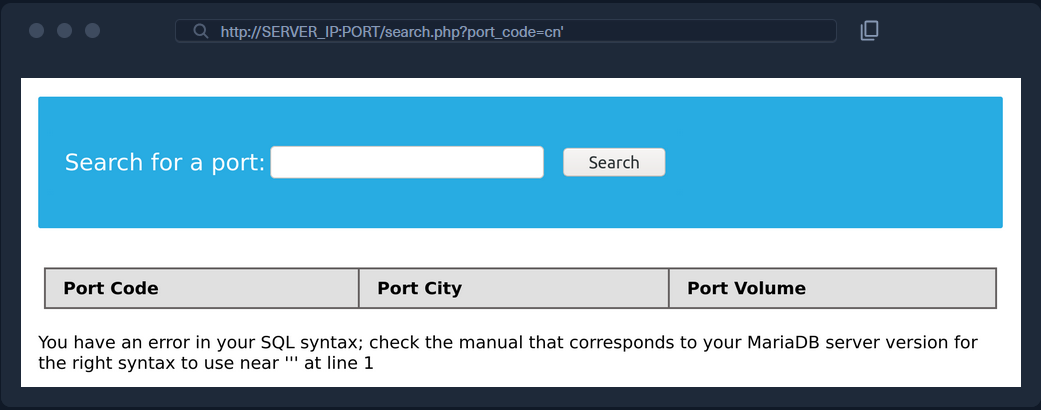
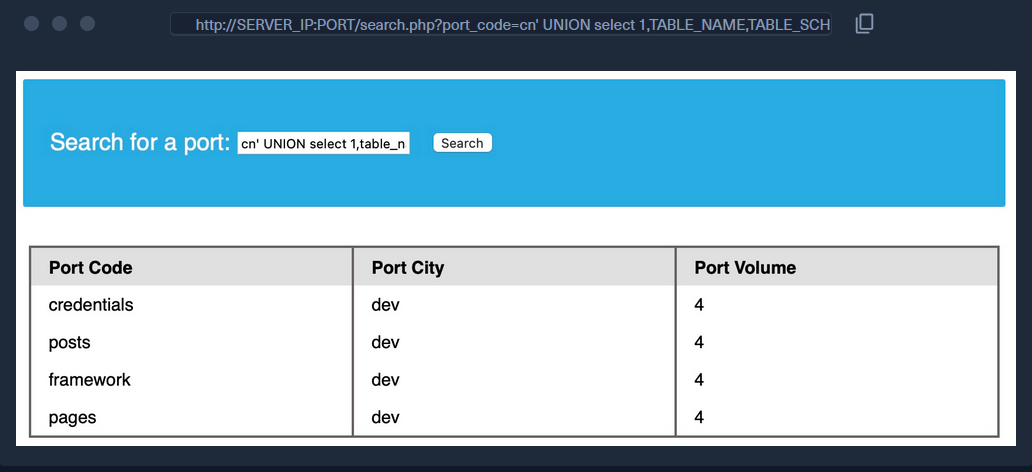
GITBOOK-65: No subject

diff --git a/HTB/Web Penetration Tester/8.-sql-injection-fundamentals/8.13-database-enumeration.md b/HTB/Web Penetration Tester/8.-sql-injection-fundamentals/8.13-database-enumeration.md
@@ -1,0 +1,171 @@
+---
+layout:
+  width: wide
+  title:
+    visible: true
+  description:
+    visible: false
+  tableOfContents:
+    visible: true
+  outline:
+    visible: true
+  pagination:
+    visible: true
+  metadata:
+    visible: false
+  tags:
+    visible: true
+---
+
+# 8.13 Database Enumeration
+
+In the previous sections, we learned about different SQL queries in `MySQL` and SQL injections and how to use them. This section will put all of that to use and gather data from the database using SQL queries within SQL injections.
+
+***
+
+### MySQL Fingerprinting <a href="#mysql-fingerprinting" id="mysql-fingerprinting"></a>
+
+Before enumerating the database, we usually need to identify the type of DBMS we are dealing with. This is because each DBMS has different queries, and knowing what it is will help us know what queries to use.
+
+As an initial guess, if the webserver we see in HTTP responses is <mark style="color:$info;">`Apache`</mark> or <mark style="color:$info;">`Nginx`</mark>, it is a good guess that the webserver is running on Linux, so the DBMS is likely <mark style="color:$info;">`MySQL`</mark>. The same also applies to Microsoft DBMS if the webserver is <mark style="color:$info;">`IIS`</mark>, so it is likely to be <mark style="color:$info;">`MSSQL`</mark>. However, this is a far-fetched guess, as many other databases can be used on either operating system or web server. So, there are different queries we can test to fingerprint the type of database we are dealing with.
+
+As we cover <mark style="color:$info;">`MySQL`</mark> in this module, let us fingerprint <mark style="color:$info;">`MySQL`</mark> databases. The following queries and their output will tell us that we are dealing with <mark style="color:$info;">`MySQL`</mark>:
+
+| Payload                                              | When to Use                      | Expected Output                                                                       | Wrong Output                                              |
+| ---------------------------------------------------- | -------------------------------- | ------------------------------------------------------------------------------------- | --------------------------------------------------------- |
+| <mark style="color:$info;">`SELECT @@version`</mark> | When we have full query output   | MySQL Version 'i.e. <mark style="color:$info;">`10.3.22-MariaDB-1ubuntu1`</mark>'     | In MSSQL it returns MSSQL version. Error with other DBMS. |
+| <mark style="color:$info;">`SELECT POW(1,1)`</mark>  | When we only have numeric output | <mark style="color:$info;">`1`</mark>                                                 | Error with other DBMS                                     |
+| <mark style="color:$info;">`SELECT SLEEP(5)`</mark>  | Blind/No Output                  | Delays page response for 5 seconds and returns <mark style="color:$info;">`0`</mark>. | Will not delay response with other DBMS                   |
+
+As we saw in the example from the previous section, when we tried <mark style="color:$info;">`@@version`</mark>, it gave us:
+
+<figure><img src="../.gitbook/assets/image (3).png" alt=""><figcaption></figcaption></figure>
+
+The output <mark style="color:$info;">`10.3.22-MariaDB-1ubuntu1`</mark> means that we are dealing with a <mark style="color:$info;">`MariaDB`</mark> DBMS similar to MySQL. Since we have direct query output, we will not have to test the other payloads. Instead, we can test them and see what we get.
+
+***
+
+### INFORMATION\_SCHEMA Database <a href="#information_schema-database" id="information_schema-database"></a>
+
+To pull data from tables using <mark style="color:$info;">`UNION SELECT`</mark>, we need to properly form our <mark style="color:$info;">`SELECT`</mark> queries. To do so, we need the following information:
+
+* List of databases
+* List of tables within each database
+* List of columns within each table
+
+With the above information, we can form our <mark style="color:$info;">`SELECT`</mark> statement to dump data from any column in any table within any database inside the DBMS. This is where we can utilize the <mark style="color:$info;">`INFORMATION_SCHEMA`</mark> Database.
+
+The <mark style="color:$info;">`INFORMATION_SCHEMA`</mark> database is a special database in systems like MySQL. It does not store normal user data like usernames or passwords. Instead, it stores **metadata**, which means information _about_ other databases.
+
+This includes details such as:
+
+* What databases exist
+* What tables are inside each database
+* What columns each table has
+
+This makes it very useful during SQL Injection because it helps us understand the structure of the database.
+
+Normally, when we write a query like:
+
+```sql
+SELECT * FROM users;
+```
+
+the database will search for the **users** table only inside the currently selected database.
+
+But if we want to access a table from a different database, we must specify both the database name and table name using a dot (<mark style="color:$info;">`.`</mark>`)`.
+
+Example:
+
+```sql
+SELECT * FROM my_database.users;
+```
+
+Here:
+
+* <mark style="color:$info;">`my_database`</mark> is the database name
+* <mark style="color:$info;">`users`</mark> is the table name
+
+This tells the database exactly where to look.
+
+In the same way, we can access tables inside the <mark style="color:$info;">**`INFORMATION_SCHEMA`**</mark> database.
+
+For example:
+
+```sql
+SELECT * FROM INFORMATION_SCHEMA.tables;
+```
+
+This query returns a list of all tables from all databases.
+
+So, instead of guessing table names, we can use <mark style="color:$info;">`INFORMATION_SCHEMA`</mark> to discover them easily. This is why it plays an important role in SQL Injection attacks, as it helps attackers explore the database structure step by step.
+
+***
+
+### SCHEMATA <a href="#schemata" id="schemata"></a>
+
+To start our enumeration, we should find what databases are available on the DBMS. The table [SCHEMATA](https://dev.mysql.com/doc/refman/8.0/en/information-schema-schemata-table.html) in the <mark style="color:$info;">`INFORMATION_SCHEMA`</mark> database contains information about all databases on the server. It is used to obtain database names so we can then query them. The `SCHEMA_NAME` column contains all the database names currently present.
+
+Let us first test this on a local database to see how the query is used:
+
+```bash
+mysql> SELECT SCHEMA_NAME FROM INFORMATION_SCHEMA.SCHEMATA;
+
++--------------------+
+| SCHEMA_NAME        |
++--------------------+
+| mysql              |
+| information_schema |
+| performance_schema |
+| ilfreight          |
+| dev                |
++--------------------+
+6 rows in set (0.01 sec)
+```
+
+We see the <mark style="color:$info;">`ilfreight`</mark> and <mark style="color:$info;">`dev`</mark> databases.
+
+> Note: The first three databases are default MySQL databases and are present on any server, so we usually ignore them during DB enumeration. Sometimes there's a fourth '<mark style="color:$info;">`sys`</mark>' DB as well.
+
+Now, let's do the same using a <mark style="color:$info;">`UNION`</mark> SQL injection, with the following payload:
+
+```sql
+cn' UNION select 1,schema_name,3,4 from INFORMATION_SCHEMA.SCHEMATA-- -
+```
+
+<figure><img src="../.gitbook/assets/image.png" alt=""><figcaption></figcaption></figure>
+
+Once again, we see two databases, <mark style="color:$info;">`ilfreight`</mark> and <mark style="color:$info;">`dev`</mark>, apart from the default ones. Let us find out which database the web application is running to retrieve ports data from.&#x20;
+
+We can find the current database with the <mark style="color:$info;">`SELECT database()`</mark> query. We can do this similarly to how we found the DBMS version in the previous section:
+
+```sql
+ cn' UNION select 1,database(),2,3-- -
+```
+
+<figure><img src="../.gitbook/assets/image (1).png" alt=""><figcaption></figcaption></figure>
+
+We see that the database name is <mark style="color:$info;">`ilfreight`</mark>. However, the other database (<mark style="color:$info;">`dev`</mark>) looks interesting. So, let us try to retrieve the tables from it.
+
+***
+
+### TABLES <a href="#tables" id="tables"></a>
+
+Before we dump data from the <mark style="color:$info;">`dev`</mark> database, we need to get a list of the tables to query them with a <mark style="color:$info;">`SELECT`</mark> statement. To find all tables within a database, we can use the <mark style="color:$info;">`TABLES`</mark> table in the <mark style="color:$info;">`INFORMATION_SCHEMA`</mark> Database.
+
+The [TABLES](https://dev.mysql.com/doc/refman/8.0/en/information-schema-tables-table.html) table contains information about all tables throughout the database. This table contains multiple columns, but we are interested in the <mark style="color:$info;">`TABLE_SCHEMA`</mark> and <mark style="color:$info;">`TABLE_NAME`</mark> columns. The <mark style="color:$info;">`TABLE_NAME`</mark> column stores table names, while the <mark style="color:$info;">`TABLE_SCHEMA`</mark> column points to the database each table belongs to. This can be done similarly to how we found the database names. For example, we can use the following payload to find the tables within the <mark style="color:$info;">`dev`</mark> database:
+
+```sql
+cn' UNION select 1,TABLE_NAME,TABLE_SCHEMA,4 from INFORMATION_SCHEMA.TABLES where table_schema='dev'-- -
+```
+
+> Note how we replaced the numbers '2' and '3' with 'TABLE\_NAME' and 'TABLE\_SCHEMA', to get the output of both columns in the same query.
+
+<figure><img src="../.gitbook/assets/image (2).png" alt=""><figcaption></figcaption></figure>
+
+> Note: we added a (where table\_schema='dev') condition to only return tables from the 'dev' database, otherwise we would get all tables in all databases, which can be many.
+
+We see four tables in the dev database, namely <mark style="color:$info;">`credentials`</mark>, <mark style="color:$info;">`framework`</mark>, <mark style="color:$info;">`pages`</mark>, and <mark style="color:$info;">`posts`</mark>. For example, the <mark style="color:$info;">`credentials`</mark> table could contain sensitive information to look into it.
+
+***
+

diff --git a/HTB/Web Penetration Tester/6.-javascript-deobfuscation/6.6-deobfuscation.md b/HTB/Web Penetration Tester/6.-javascript-deobfuscation/6.6-deobfuscation.md
@@ -29,7 +29,7 @@ We see that the current code we have is all written in a single line. This is kn
 
 For example, if we were using Firefox, we can open the browser debugger with <mark style="color:$primary;">`CTRL+SHIFT+Z`</mark>, and then click on our script <mark style="color:$primary;">`secret.js`</mark>. This will show the script in its original formatting, but we can click on the '<mark style="color:$primary;">`{ }`</mark>' button at the bottom, which will <mark style="color:$primary;">`Pretty Print`</mark> the script into its proper JavaScript formatting:
 
-<figure><img src="../.gitbook/assets/image (1) (1) (1) (1).png" alt=""><figcaption></figcaption></figure>
+<figure><img src="../.gitbook/assets/image (1) (1) (1) (1) (1).png" alt=""><figcaption></figcaption></figure>
 
 Furthermore, we can utilize many online tools or code editor plugins, like [Prettier](https://prettier.io/playground/) or [Beautifier](https://beautifier.io/). Let us copy the `secret.js` script:
 
@@ -40,9 +40,9 @@ eval(function (p, a, c, k, e, d) { e = function (c) { return c.toString(36) }; i
 
 We can see that both websites do a good job in formatting the code:
 
-<figure><img src="../.gitbook/assets/image (1) (1) (1) (1) (1).png" alt=""><figcaption></figcaption></figure>
+<figure><img src="../.gitbook/assets/image (1) (1) (1) (1) (1) (1).png" alt=""><figcaption></figcaption></figure>
 
-<figure><img src="../.gitbook/assets/image (2) (1) (1) (1).png" alt=""><figcaption></figcaption></figure>
+<figure><img src="../.gitbook/assets/image (2) (1) (1) (1) (1).png" alt=""><figcaption></figcaption></figure>
 
 However, the code is still not very easy to read. This is because the code we are dealing with was not only minified but obfuscated as well. So, simply formatting or beautifying the code will not be enough. For that, we will require tools to deobfuscate the code.
 
@@ -54,7 +54,7 @@ We can find many good online tools to deobfuscate JavaScript code and turn it in
 
 > Tip: Ensure you do not leave any empty lines before the script, as it may affect the deobfuscation process and give inaccurate results.
 
-<figure><img src="../.gitbook/assets/image (3) (1) (1) (1).png" alt=""><figcaption></figcaption></figure>
+<figure><img src="../.gitbook/assets/image (3) (1) (1) (1) (1).png" alt=""><figcaption></figcaption></figure>
 
 We can see that this tool does a much better job in deobfuscating the JavaScript code and gave us an output we can understand:
 

diff --git a/HTB/Web Penetration Tester/3.-using-web-proxies/3.4-automatic-modification.md b/HTB/Web Penetration Tester/3.-using-web-proxies/3.4-automatic-modification.md
@@ -6,7 +6,7 @@
 
 We can go to (`Proxy>Proxy settings>HTTP match and replace rules`) and click on `Add` in Burp. As the screenshot below shows, we will set the following options:
 
-<figure><img src="../.gitbook/assets/image (2) (1) (1) (1) (1) (1).png" alt=""><figcaption></figcaption></figure>
+<figure><img src="../.gitbook/assets/image (2) (1) (1) (1) (1) (1) (1).png" alt=""><figcaption></figcaption></figure>
 
 | **Type: Request header**                      | Since the change we want to make will be in the request header and not in its body.                                                              |
 | --------------------------------------------- | ------------------------------------------------------------------------------------------------------------------------------------------------ |
@@ -16,7 +16,7 @@ We can go to (`Proxy>Proxy settings>HTTP match and replace rules`) and click on 
 
 Once we enter the above options and click `Ok`, our new Match and Replace option will be added and enabled and will start automatically replacing the `User-Agent` header in our requests with our new User-Agent. We can verify that by visiting any website using the pre-configured Burp browser and reviewing the intercepted request. We will see that our User-Agent has indeed been automatically replaced:
 
-<figure><img src="../.gitbook/assets/image (3) (1) (1) (1) (1) (1).png" alt=""><figcaption></figcaption></figure>
+<figure><img src="../.gitbook/assets/image (3) (1) (1) (1) (1) (1) (1).png" alt=""><figcaption></figcaption></figure>
 
 ***
 
@@ -24,7 +24,7 @@ Once we enter the above options and click `Ok`, our new Match and Replace option
 
 ZAP has a similar feature called `Replacer`, which we can access by pressing \[`CTRL+R`] or clicking on `Replacer` in ZAP's options menu. It is fairly similar to what we did above, so we can click on `Add` and add the same options we used earlier:
 
-<figure><img src="../.gitbook/assets/image (4) (1) (1) (1) (1).png" alt=""><figcaption></figcaption></figure>
+<figure><img src="../.gitbook/assets/image (4) (1) (1) (1) (1) (1).png" alt=""><figcaption></figcaption></figure>
 
 * `Description`: `HTB User-Agent`.
 * `Match Type`: `Request Header (will add if not present)`.

diff --git a/HTB/Web Penetration Tester/8.-sql-injection-fundamentals/8.12-union-injection.md b/HTB/Web Penetration Tester/8.-sql-injection-fundamentals/8.12-union-injection.md
@@ -21,11 +21,11 @@ layout:
 
 Now that we know how the Union clause works and how to use it let us learn how to utilize it in our SQL injections. Let us take the following example:
 
-<figure><img src="../.gitbook/assets/image (1).png" alt=""><figcaption></figcaption></figure>
+<figure><img src="../.gitbook/assets/image (1) (1).png" alt=""><figcaption></figcaption></figure>
 
 We see a potential SQL injection in the search parameters. We apply the SQLi Discovery steps by injecting a single quote (<mark style="color:$info;">`'`</mark>), and we do get an error:
 
-<figure><img src="../.gitbook/assets/image (2).png" alt=""><figcaption></figcaption></figure>
+<figure><img src="../.gitbook/assets/image (2) (1).png" alt=""><figcaption></figcaption></figure>
 
 Since we caused an error, this may mean that the page is vulnerable to SQL injection. This scenario is ideal for exploitation through Union-based injection, as we can see our queries' results.
 
@@ -54,7 +54,7 @@ If we failed at <mark style="color:$info;">`order by 4`</mark>, this means the t
 
 As we see, we get a normal result:
 
-<figure><img src="../.gitbook/assets/image (3).png" alt=""><figcaption></figcaption></figure>
+<figure><img src="../.gitbook/assets/image (3) (1).png" alt=""><figcaption></figcaption></figure>
 
 Next, let us try to sort by the second column, with the following payload:
 
@@ -64,7 +64,7 @@ Next, let us try to sort by the second column, with the following payload:
 
 We still get the results. We notice that they are sorted differently, as expected:
 
-<figure><img src="../.gitbook/assets/image (4).png" alt=""><figcaption></figcaption></figure>
+<figure><img src="../.gitbook/assets/image (4) (1).png" alt=""><figcaption></figcaption></figure>
 
 We do the same for column <mark style="color:$info;">`3`</mark> and <mark style="color:$info;">`4`</mark> and get the results back. However, when we try to <mark style="color:$info;">`ORDER BY`</mark> column <mark style="color:$info;">`5`</mark>, we get the following error:
 

diff --git a/HTB/Web Penetration Tester/8.-sql-injection-fundamentals/8.10-using-comments.md b/HTB/Web Penetration Tester/8.-sql-injection-fundamentals/8.10-using-comments.md
@@ -126,19 +126,19 @@ The above query ensures that the user's id is always greater than <mark style="c
 
 Let us try logging in with valid credentials <mark style="color:$info;">`admin / p@ssw0rd`</mark> to see the response.
 
-<figure><img src="../.gitbook/assets/image (1) (1).png" alt=""><figcaption></figcaption></figure>
+<figure><img src="../.gitbook/assets/image (1) (1) (1).png" alt=""><figcaption></figcaption></figure>
 
 As expected, the login failed even though we supplied valid credentials because the admin’s ID equals <mark style="color:$info;">1</mark>. So let us try logging in with the credentials of another user, such as <mark style="color:$info;">`tom`</mark>.
 
-<figure><img src="../.gitbook/assets/image (2) (1).png" alt=""><figcaption></figcaption></figure>
+<figure><img src="../.gitbook/assets/image (2) (1) (1).png" alt=""><figcaption></figcaption></figure>
 
 Logging in as the user with an id not equal to <mark style="color:$info;">1</mark> was successful. So, how can we log in as the admin? We know from the previous section on comments that we can use them to comment out the rest of the query. So, let us try using <mark style="color:$info;">`admin'--`</mark> as the username.
 
-<figure><img src="../.gitbook/assets/image (3) (1).png" alt=""><figcaption></figcaption></figure>
+<figure><img src="../.gitbook/assets/image (3) (1) (1).png" alt=""><figcaption></figcaption></figure>
 
 The login failed due to a syntax error, as a closed one did not balance the open parenthesis. To execute the query successfully, we will have to add a closing parenthesis. Let us try using the username <mark style="color:$info;">`admin')--`</mark> to close and comment out the rest.
 
-<figure><img src="../.gitbook/assets/image (4) (1).png" alt=""><figcaption></figcaption></figure>
+<figure><img src="../.gitbook/assets/image (4) (1) (1).png" alt=""><figcaption></figcaption></figure>
 
 The query was successful, and we logged in as admin. The final query as a result of our input is:
 

diff --git a/HTB/Web Penetration Tester/6.-javascript-deobfuscation/6.4-basic-obfuscation.md b/HTB/Web Penetration Tester/6.-javascript-deobfuscation/6.4-basic-obfuscation.md
@@ -29,7 +29,7 @@ console.log('HTB JavaScript Deobfuscation Module');
 
 prints a message in the browser console. When we run this in tools like [JSConsole](https://jsconsole.com/), it clearly shows the output. This is called **cleartext code**, which is easy to read and understand.
 
-<figure><img src="../.gitbook/assets/image (1) (1) (1) (1) (1) (1).png" alt=""><figcaption></figcaption></figure>
+<figure><img src="../.gitbook/assets/image (1) (1) (1) (1) (1) (1) (1).png" alt=""><figcaption></figcaption></figure>
 
 ### Minifying JavaScript Code
 
@@ -39,7 +39,7 @@ Many tools can help us minify JavaScript code, like [javascript-minifier](https:
 
 Example:
 
-<figure><img src="../.gitbook/assets/image (2) (1) (1) (1) (1).png" alt=""><figcaption></figcaption></figure>
+<figure><img src="../.gitbook/assets/image (2) (1) (1) (1) (1) (1).png" alt=""><figcaption></figcaption></figure>
 
 For larger programs, minified code becomes a long single line, making it less readable. Minification is commonly used to improve website loading speed and is often saved with the `.min.js` extension.
 
@@ -63,7 +63,7 @@ console.log('HTB JavaScript Deobfuscation Module');
 
 can be transformed into a long unreadable packed version. Even though the packed code looks complex, when executed in the browser or JavaScript console, it still performs the same task and prints the same output.
 
-<figure><img src="../.gitbook/assets/image (4) (1) (1) (1).png" alt=""><figcaption></figcaption></figure>
+<figure><img src="../.gitbook/assets/image (4) (1) (1) (1) (1).png" alt=""><figcaption></figcaption></figure>
 
 A packer works by taking all words, strings, and symbols from the original code and storing them in a list or dictionary. Then it uses the function arguments such as `(p,a,c,k,e,d)` to rebuild the original code step by step during execution. Different packers may use slightly different variable names, but the method is similar.
 

diff --git a/HTB/Web Penetration Tester/8.-sql-injection-fundamentals/8.9-subverting-query-logic.md b/HTB/Web Penetration Tester/8.-sql-injection-fundamentals/8.9-subverting-query-logic.md
@@ -67,7 +67,7 @@ Sometimes the URL encoded version is needed, especially when the payload is plac
 
 For example, if we enter a single quote `'` in the username field and submit the login form, the application may return an SQL error instead of a normal **Login Failed** message.
 
-<figure><img src="../.gitbook/assets/image (2) (1) (1).png" alt=""><figcaption></figcaption></figure>
+<figure><img src="../.gitbook/assets/image (2) (1) (1) (1).png" alt=""><figcaption></figcaption></figure>
 
 The back-end query may look like:
 
@@ -149,7 +149,7 @@ So:
 TRUE OR FALSE = TRUE
 ```
 
-<figure><img src="../.gitbook/assets/image (3) (1) (1).png" alt=""><figcaption></figcaption></figure>
+<figure><img src="../.gitbook/assets/image (3) (1) (1) (1).png" alt=""><figcaption></figcaption></figure>
 
 Let us break it down:
 
@@ -196,6 +196,6 @@ To successfully log in once again, we will need an overall <mark style="color:$i
 
 The additional `OR` condition resulted in a <mark style="color:$info;">`true`</mark> query overall, as the <mark style="color:$info;">`WHERE`</mark> clause returns everything in the table, and the user present in the first row is logged in. In this case, as both conditions will return <mark style="color:$info;">`true`</mark>, we do not have to provide a test username and password and can directly start with the <mark style="color:$info;">`'`</mark> injection and log in with just <mark style="color:$info;">`' or '1' = '1`</mark>.
 
-<figure><img src="../.gitbook/assets/image (1) (1) (1).png" alt=""><figcaption></figcaption></figure>
+<figure><img src="../.gitbook/assets/image (1) (1) (1) (1).png" alt=""><figcaption></figcaption></figure>
 
 This works since the query evaluate to <mark style="color:$info;">`true`</mark> irrespective of the username or password.

diff --git a/HTB/Web Penetration Tester/4.-information-gathering-web-edition/4.8-certificate-transparency-logs.md b/HTB/Web Penetration Tester/4.-information-gathering-web-edition/4.8-certificate-transparency-logs.md
@@ -19,7 +19,7 @@ A **Merkle Tree** is a secure way to organize and protect data, and CT logs use 
 
 In this structure, **each certificate is turned into a hash** and placed at the bottom of the tree (leaf nodes). These hashes are then combined in pairs and hashed again, forming upper-level nodes. This process continues until only **one final hash** remains at the top, called the **Merkle root**, which represents the entire log.
 
-<figure><img src="../.gitbook/assets/image (1) (1) (1) (1) (1) (1) (1) (1).png" alt=""><figcaption></figcaption></figure>
+<figure><img src="../.gitbook/assets/image (1) (1) (1) (1) (1) (1) (1) (1) (1).png" alt=""><figcaption></figcaption></figure>
 
 To check whether a certificate is really in the CT log, you don’t need the whole log. You only need the certificate’s hash and a few related hashes (called the **Merkle path**) that lead up to the root. If all the hashes match correctly, the certificate is confirmed as valid and logged.
 

diff --git a/HTB/Web Penetration Tester/4.-information-gathering-web-edition/4.6-dns-zone-transfers.md b/HTB/Web Penetration Tester/4.-information-gathering-web-edition/4.6-dns-zone-transfers.md
@@ -2,7 +2,7 @@
 
 DNS zone transfers, also known as AXFR (Asynchronous Full Transfer) requests, offer a potential goldmine of information for web reconnaissance. A zone transfer is a mechanism for replicating DNS data across servers. When a zone transfer is successful, it provides a complete copy of the DNS zone file, which contains a wealth of details about the target domain.
 
-<figure><img src="../.gitbook/assets/image (1) (1) (1) (1) (1) (1) (1).png" alt=""><figcaption></figcaption></figure>
+<figure><img src="../.gitbook/assets/image (1) (1) (1) (1) (1) (1) (1) (1).png" alt=""><figcaption></figcaption></figure>
 
 **1. Zone Transfer Request (AXFR)**\
 The secondary DNS server asks the primary DNS server for a copy of the domain’s DNS data. It sends a special request called **AXFR**, which means “send me the full zone.”

diff --git a/HTB/Web Penetration Tester/5.-web-fuzzing/5.11-api-fuzzing.md b/HTB/Web Penetration Tester/5.-web-fuzzing/5.11-api-fuzzing.md
@@ -40,7 +40,7 @@ There are 3 primary types of API fuzzing
 
 Before fuzzing, you should first explore the API. This API provides automatically generated documentation via the `/docs` endpoint, `http://IP:PORT/docs`. The following page outlines the API's documented endpoint.
 
-<figure><img src="../.gitbook/assets/image (3) (1) (1) (1) (1).png" alt=""><figcaption></figcaption></figure>
+<figure><img src="../.gitbook/assets/image (3) (1) (1) (1) (1) (1).png" alt=""><figcaption></figcaption></figure>
 
 The specification details five endpoints, each with a specific purpose and method:
 

diff --git a/HTB/Web Penetration Tester/8.-sql-injection-fundamentals/8.3-types-of-databases.md b/HTB/Web Penetration Tester/8.-sql-injection-fundamentals/8.3-types-of-databases.md
@@ -51,7 +51,7 @@ For example:
 
 This allows the database to connect user information with their posts without repeating the same data.
 
-<figure><img src="../.gitbook/assets/image (4) (1) (1).png" alt=""><figcaption></figcaption></figure>
+<figure><img src="../.gitbook/assets/image (4) (1) (1) (1).png" alt=""><figcaption></figcaption></figure>
 
 #### Schema
 

diff --git a/HTB/Web Penetration Tester/SUMMARY.md b/HTB/Web Penetration Tester/SUMMARY.md
@@ -88,3 +88,4 @@
   * [8.10 Using Comments](8.-sql-injection-fundamentals/8.10-using-comments.md)
   * [8.11 Union Clause](8.-sql-injection-fundamentals/8.11-union-clause.md)
   * [8.12 Union Injection](8.-sql-injection-fundamentals/8.12-union-injection.md)
+  * [8.13 Database Enumeration](8.-sql-injection-fundamentals/8.13-database-enumeration.md)
